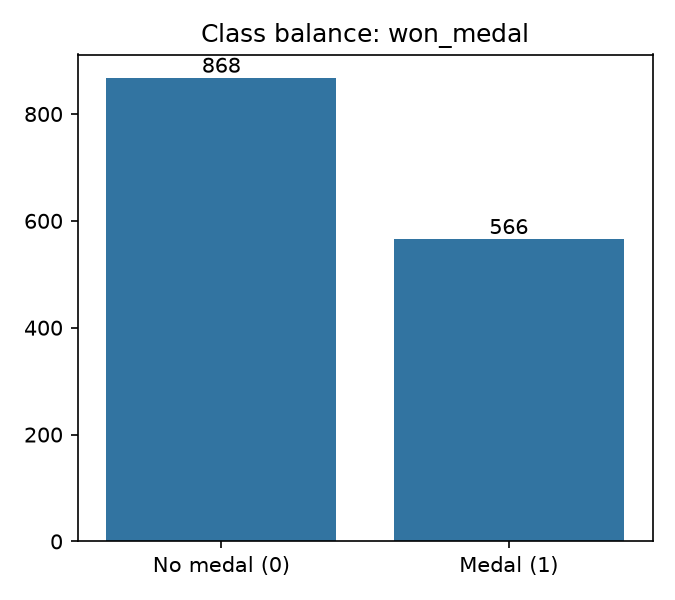
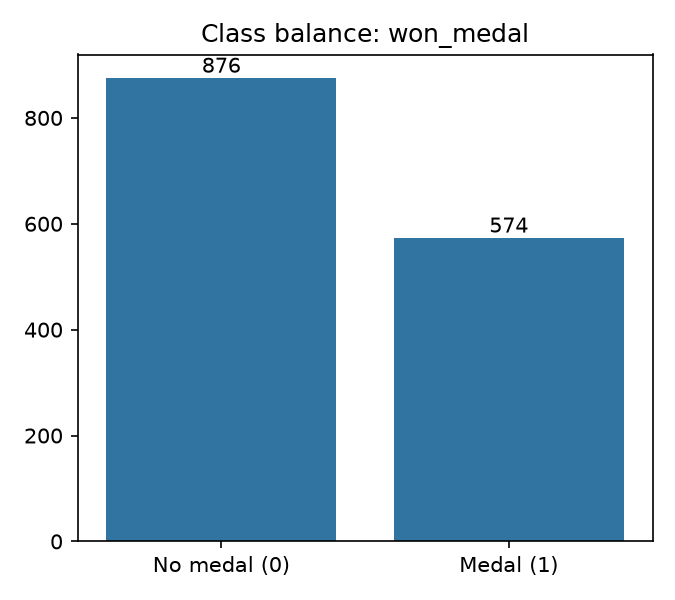
Regenerate EDA figures on the fixed data; fix heatmap legend
The three eda.py figures still showed the pre-fix dataset (1,434 rows).
Regenerated on the current CSV (1,450 rows, 876 no-medal / 574 medal).
Also fix the null heatmap title: nulls are the LIGHT cells, not dark.

diff --git a/src/eda.py b/src/eda.py
@@ -16,7 +16,7 @@ def main():
     raw = pd.read_csv(ROOT / "data" / "interim" / "merged_with_nulls.csv")
     plt.figure(figsize=(11, 6))
     sns.heatmap(raw.isna(), cbar=False, yticklabels=False)
-    plt.title("Missing values before dropping rows (dark = null)")
+    plt.title("Missing values before dropping rows (light = null)")
     plt.tight_layout(); plt.savefig(FIG / "null_heatmap.png", dpi=150); plt.close()
 
     df = load_data()
